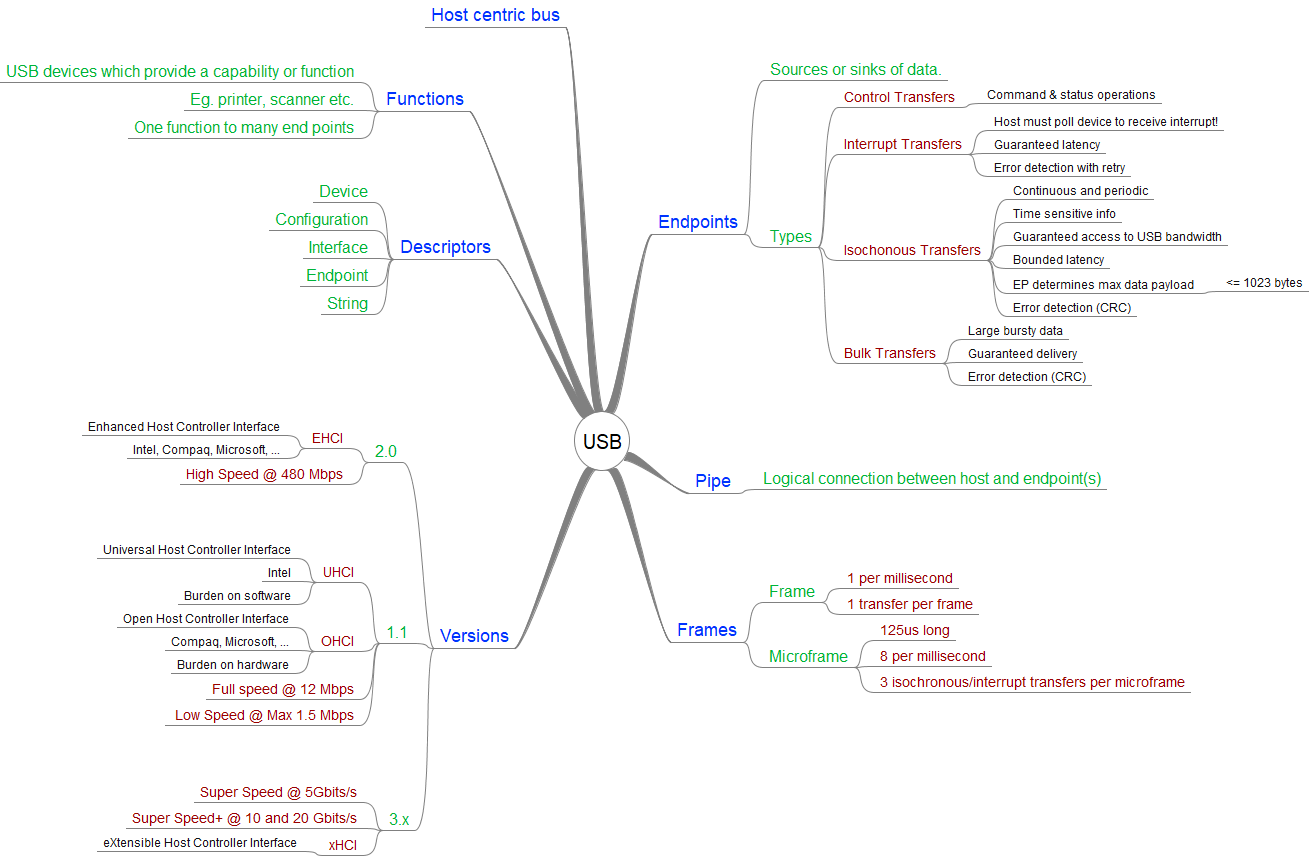
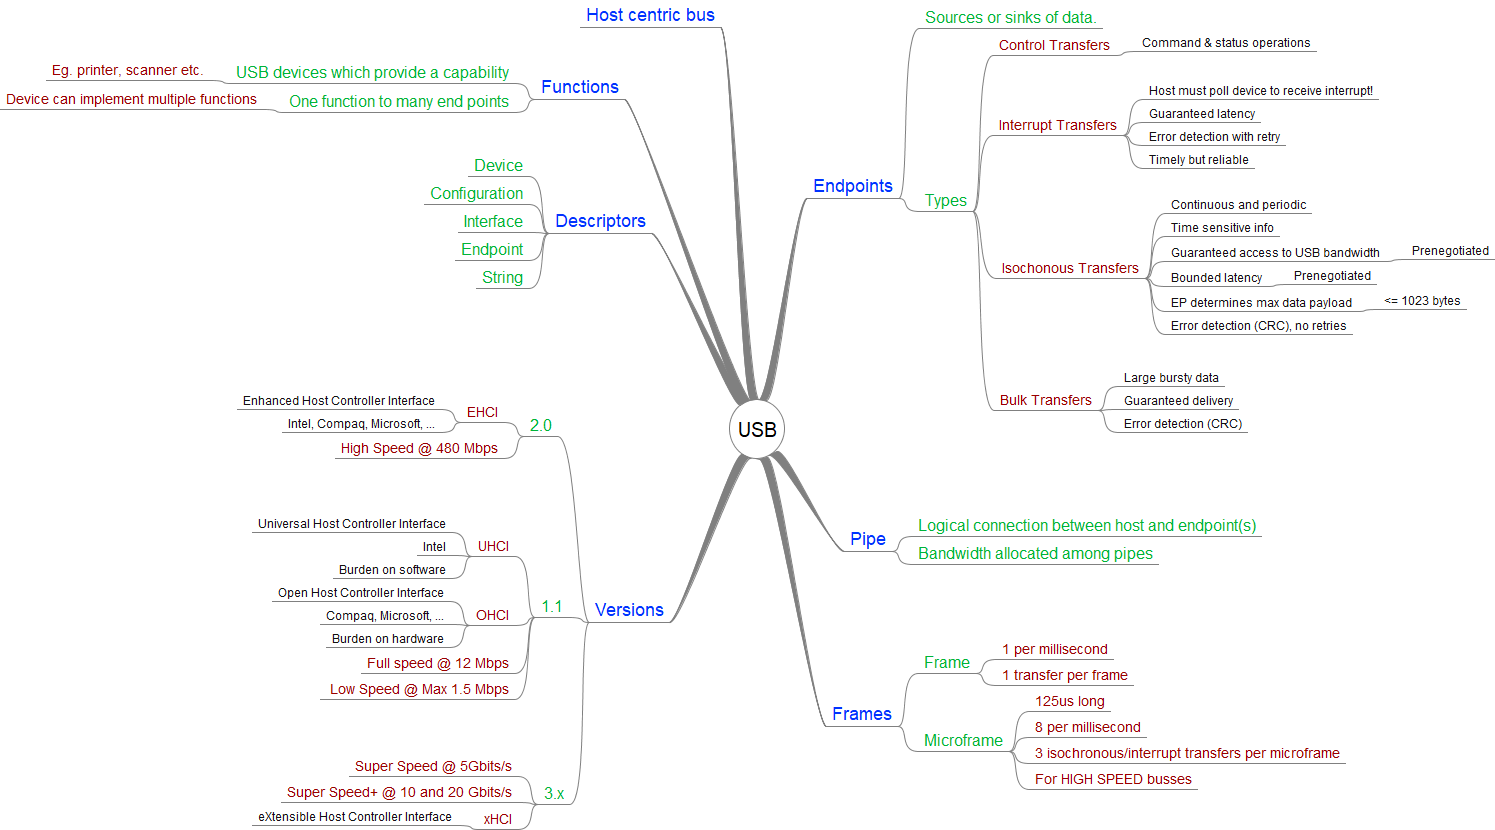
More usb

diff --git a/src/html/usb-bus.html b/src/html/usb-bus.html
@@ -1,0 +1,52 @@
+<!DOCTYPE HTML>
+<html> 
+<head>
+	<meta http-equiv="Content-Type" content="text/html; charset=UTF-8"> <!-- HTML 4 -->
+	<meta charset="UTF-8">                                              <!-- HTML 5 -->
+	<title>USB | JEHTech</title>
+	<!-- META_INSERT -->
+	<!-- CSS_INSERT -->
+	<!-- JAVASCRIPT_INSERT -->
+</head>
+
+<body>
+<div id="header">
+	-- This is JEHTech --
+</div>
+
+<div id="sidebar">
+	<h1 class="title">Links...</h1>
+	<div id="includedContent"></div>
+</div>
+
+<div id="content">
+<h1 class="title">USB</h1>
+<div style="padding-right:10px;">
+
+<h2>Page Contents</h2>
+<div id="page_contents">
+</div>
+
+<p>
+	<img src="##IMG_DIR##/USB.png" alt="Mind map of USB info"/>
+</p>
+
+<h2>Transaction Limits</h2>
+<img src="##IMG_DIR##/usb-fullspeed-iso-tx-rates.png" alt="snapshot of USB 2.0 standard, table 5-4" style="float:left; margin:10px"/>
+<p>
+	To the left is a screenshot of "Table 5-4. Full-speed Isochonous Transaction Limits" from the USB 2.0 standard <a href="http://sdphca.ucsd.edu/Lab_Equip_Manuals/usb_20.pdf" target="_blank">[Ref]</a>.
+</p>
+<p>
+	To see how the limits are arrived at lets consider transfering the maximum isochronous packet size of 1023 bytes. Given the 9 bytes header we have a total of 1032 byes. At 12 Mbps, which is 1.5MBps, 1032 bytes takes 688uS. Thus in the 1 millisecond frame time allocated we can only do one such transfer. 312uS are not used, which is equivalent to 468 bytes.
+</p>
+<p>
+	The standard has similar tables for high speed and low speed transfers too...
+</p>
+
+
+</div> <!-- END H1 padding div -->
+</div>
+</body>
+</html>
+
+

diff --git a/src/html/_links.html b/src/html/_links.html
@@ -53,7 +53,7 @@
 	<li><a href="excel.html">Excel</a></li>
 	<li>Hardware
 		<ul>
-			<li><a href="USB.html">USB</a></li>
+			<li><a href="usb-bus.html">USB</a></li>
 		</ul>
 	</li>
 

diff --git a/src/images/jeh-tech/USB.mm b/src/images/jeh-tech/USB.mm
@@ -21,24 +21,29 @@
 <font NAME="SansSerif" SIZE="14"/>
 <node COLOR="#111111" CREATED="1550653119589" ID="ID_1901416013" MODIFIED="1550653835460" TEXT="Command &amp; status operations"/>
 </node>
-<node COLOR="#990000" CREATED="1550653095711" ID="ID_1557092615" MODIFIED="1550653835460" TEXT="Interrupt Transfers">
+<node COLOR="#990000" CREATED="1550653095711" ID="ID_1557092615" MODIFIED="1550657305881" TEXT="Interrupt Transfers" VSHIFT="21">
 <font NAME="SansSerif" SIZE="14"/>
 <node COLOR="#111111" CREATED="1550653310040" ID="ID_1321021027" MODIFIED="1550653835460" TEXT="Host must poll device to receive interrupt!"/>
 <node COLOR="#111111" CREATED="1550653321863" ID="ID_1911841545" MODIFIED="1550653835460" TEXT="Guaranteed latency"/>
 <node COLOR="#111111" CREATED="1550653338509" ID="ID_1163366072" MODIFIED="1550653835461" TEXT="Error detection with retry"/>
+<node COLOR="#111111" CREATED="1550656925226" ID="ID_1942538099" MODIFIED="1550656934054" TEXT="Timely but reliable"/>
 </node>
-<node COLOR="#990000" CREATED="1550653100694" ID="ID_1350048137" MODIFIED="1550653835461" TEXT="Isochonous Transfers">
+<node COLOR="#990000" CREATED="1550653100694" HGAP="23" ID="ID_1350048137" MODIFIED="1550657789580" TEXT="Isochonous Transfers" VSHIFT="22">
 <font NAME="SansSerif" SIZE="14"/>
 <node COLOR="#111111" CREATED="1550653139378" ID="ID_1728854077" MODIFIED="1550653835461" TEXT="Continuous and periodic"/>
 <node COLOR="#111111" CREATED="1550653154729" ID="ID_1256281304" MODIFIED="1550653835461" TEXT="Time sensitive info"/>
-<node COLOR="#111111" CREATED="1550653163432" ID="ID_1793199105" MODIFIED="1550653835461" TEXT="Guaranteed access to USB bandwidth"/>
-<node COLOR="#111111" CREATED="1550653173382" ID="ID_549914939" MODIFIED="1550653835462" TEXT="Bounded latency"/>
+<node COLOR="#111111" CREATED="1550653163432" ID="ID_1793199105" MODIFIED="1550653835461" TEXT="Guaranteed access to USB bandwidth">
+<node COLOR="#111111" CREATED="1550656887533" ID="ID_419978848" MODIFIED="1550656903424" TEXT="Prenegotiated"/>
+</node>
+<node COLOR="#111111" CREATED="1550653173382" ID="ID_549914939" MODIFIED="1550653835462" TEXT="Bounded latency">
+<node COLOR="#111111" CREATED="1550656904580" ID="ID_504621430" MODIFIED="1550656909464" TEXT="Prenegotiated"/>
+</node>
 <node COLOR="#111111" CREATED="1550653189477" ID="ID_184984718" MODIFIED="1550653835462" TEXT="EP determines max data payload">
 <node COLOR="#111111" CREATED="1550653207843" ID="ID_89811756" MODIFIED="1550653835462" TEXT="&lt;= 1023 bytes"/>
 </node>
-<node COLOR="#111111" CREATED="1550653227081" ID="ID_448110590" MODIFIED="1550653835462" TEXT="Error detection (CRC)"/>
+<node COLOR="#111111" CREATED="1550653227081" ID="ID_448110590" MODIFIED="1550657006168" TEXT="Error detection (CRC), no retries"/>
 </node>
-<node COLOR="#990000" CREATED="1550653107478" ID="ID_1475072307" MODIFIED="1550653835463" TEXT="Bulk Transfers">
+<node COLOR="#990000" CREATED="1550653107478" HGAP="21" ID="ID_1475072307" MODIFIED="1550657303081" TEXT="Bulk Transfers" VSHIFT="29">
 <font NAME="SansSerif" SIZE="14"/>
 <node COLOR="#111111" CREATED="1550653252831" ID="ID_620970505" MODIFIED="1550653835463" TEXT="Large bursty data"/>
 <node COLOR="#111111" CREATED="1550653264053" ID="ID_1955999838" MODIFIED="1550653835463" TEXT="Guaranteed delivery"/>
@@ -49,23 +54,31 @@
 <node COLOR="#0033ff" CREATED="1550652951334" HGAP="104" ID="ID_862104433" MODIFIED="1550653897168" POSITION="left" TEXT="Functions" VSHIFT="-36">
 <edge STYLE="sharp_bezier" WIDTH="8"/>
 <font NAME="SansSerif" SIZE="18"/>
-<node COLOR="#00b439" CREATED="1550652999209" ID="ID_1613276119" MODIFIED="1550653835465" TEXT="USB devices which provide a capability or function">
+<node COLOR="#00b439" CREATED="1550652999209" ID="ID_1613276119" MODIFIED="1550657131646" TEXT="USB devices which provide a capability">
 <edge STYLE="bezier" WIDTH="thin"/>
 <font NAME="SansSerif" SIZE="16"/>
+<node COLOR="#990000" CREATED="1550653004009" ID="ID_1837186782" MODIFIED="1550657139522" TEXT="Eg. printer, scanner etc.">
+<edge STYLE="bezier" WIDTH="thin"/>
+<font NAME="SansSerif" SIZE="14"/>
 </node>
-<node COLOR="#00b439" CREATED="1550653004009" ID="ID_1837186782" MODIFIED="1550653835466" TEXT="Eg. printer, scanner etc.">
-<edge STYLE="bezier" WIDTH="thin"/>
-<font NAME="SansSerif" SIZE="16"/>
 </node>
 <node COLOR="#00b439" CREATED="1550653023039" ID="ID_214671522" MODIFIED="1550653835467" TEXT="One function to many end points">
 <edge STYLE="bezier" WIDTH="thin"/>
 <font NAME="SansSerif" SIZE="16"/>
+<node COLOR="#990000" CREATED="1550657101830" ID="ID_331405478" MODIFIED="1550657151830" TEXT="Device can implement multiple functions">
+<edge STYLE="bezier" WIDTH="thin"/>
+<font NAME="SansSerif" SIZE="14"/>
+</node>
 </node>
 </node>
 <node COLOR="#0033ff" CREATED="1550653047707" HGAP="59" ID="ID_140339066" MODIFIED="1550653914126" POSITION="right" TEXT="Pipe" VSHIFT="-63">
 <edge STYLE="sharp_bezier" WIDTH="8"/>
 <font NAME="SansSerif" SIZE="18"/>
 <node COLOR="#00b439" CREATED="1550653050427" ID="ID_226576123" MODIFIED="1550653835468" TEXT="Logical connection between host and endpoint(s)">
+<edge STYLE="bezier" WIDTH="thin"/>
+<font NAME="SansSerif" SIZE="16"/>
+</node>
+<node COLOR="#00b439" CREATED="1550657058705" ID="ID_1435221294" MODIFIED="1550657066780" TEXT="Bandwidth allocated among pipes">
 <edge STYLE="bezier" WIDTH="thin"/>
 <font NAME="SansSerif" SIZE="16"/>
 </node>
@@ -117,6 +130,9 @@
 <font NAME="SansSerif" SIZE="14"/>
 </node>
 <node COLOR="#990000" CREATED="1550653558774" ID="ID_36073581" MODIFIED="1550653835477" TEXT="3 isochronous/interrupt transfers per microframe">
+<font NAME="SansSerif" SIZE="14"/>
+</node>
+<node COLOR="#990000" CREATED="1550659309447" ID="ID_921555391" MODIFIED="1550659314485" TEXT="For HIGH SPEED busses">
 <font NAME="SansSerif" SIZE="14"/>
 </node>
 </node>

diff --git a/src/deploy_site.py b/src/deploy_site.py
@@ -238,6 +238,7 @@ try:
 		myftp.putFile(filename)
 
 	for filename in removedFiles:
+		print("local file {} looks likes its been deleted".format(filename))
 		assert(not os.path.isfile(filename))
 		destFilename = ConvertPcLocalToHostLocal(filename)
 		print("deleting {}".format(destFilename))
